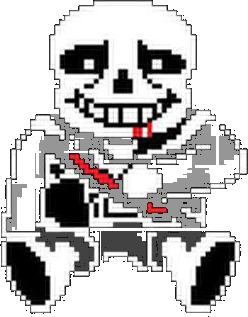
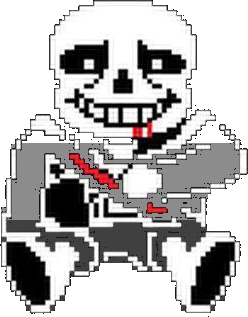
Rename Hoàng My -> Hoàn My (slide 2 + still); redo Sans sprite fill (closed silhouette, no stray gaps); cache-bust
Claude-Session: https://claude.ai/code/session_015dETkK63Reb6JNnJAvDzmD

diff --git a/index.html b/index.html
@@ -328,7 +328,7 @@
   <script>
     // ================= CẤU HÌNH =================
     const slideImages = [
-      'slide1.webp?v=1118', 'slide2.webp?v=1118', 'slide3.webp?v=1124', 'slide4.webp?v=1118', 'slide5.webp?v=1118',
+      'slide1.webp?v=1118', 'slide2.webp?v=1124', 'slide3.webp?v=1124', 'slide4.webp?v=1118', 'slide5.webp?v=1118',
       'slide6.webp?v=1118', 'slide7.webp?v=1118', 'slide8.webp?v=1118', 'slide9.webp?v=1118', 'slide10.webp?v=1118'
     ];
     // Thông tin hiển thị khi mở từng slide: sửa title / desc ở đây
@@ -1156,11 +1156,11 @@
     const SANS_HURT = new Image();
     let SANS_HURT_O = null;
     SANS_HURT.onload = () => { SANS_HURT_O = outlineSprite(SANS_HURT, 5, '#0b0b0b'); };
-    SANS_HURT.src = 'assets/sans-hurt.png?v=2';            // Sans ngồi gục
+    SANS_HURT.src = 'assets/sans-hurt.png?v=3';            // Sans ngồi gục
     const SANS_CUT = new Image();
     let SANS_CUT_O = null;
     SANS_CUT.onload = () => { SANS_CUT_O = outlineSprite(SANS_CUT, 4, '#0b0b0b'); };
-    SANS_CUT.src = 'assets/sans-cut.png?v=2';              // Sans đứng, vết chém đỏ ngang ngực
+    SANS_CUT.src = 'assets/sans-cut.png?v=3';              // Sans đứng, vết chém đỏ ngang ngực
     function outlineSprite(img, o, col) {                            // viền đen quanh sprite trắng cho dễ nhìn trên nền sáng
       const c = document.createElement('canvas'); c.width = img.width + o * 2; c.height = img.height + o * 2;
       const g = c.getContext('2d'), k = document.createElement('canvas'); k.width = img.width; k.height = img.height;
@@ -1435,7 +1435,7 @@
       return true;
     }
     // Slide có bản động (iframe phủ lên): slide 2 (cọ sơn + bút chì vẽ), slide 3 (gió + keo dán), slide 4 (phố xe đạp), slide 5 (bếp), slide 6 (giếng + mất điện), slide 7 (làng quê), slide 10 (cảnh kết: ghế, sân khấu, pháo hoa)
-    const ANIM_SRC = { 0: 'slide1-anim.html?embed', 1: 'slide2-anim.html?embed&v=1122', 2: 'slide3-anim.html?embed&v=1124', 3: 'slide4-anim.html?embed&v=1118', 4: 'slide5-anim.html?embed', 5: 'slide6-anim.html?embed&v=1118', 6: 'slide7-anim.html?embed&v=1118', 7: 'slide8-anim.html?embed', 8: 'slide9-anim.html?embed', 9: 'slide10-anim.html?embed&v=20261124a' };
+    const ANIM_SRC = { 0: 'slide1-anim.html?embed', 1: 'slide2-anim.html?embed&v=1124', 2: 'slide3-anim.html?embed&v=1124', 3: 'slide4-anim.html?embed&v=1118', 4: 'slide5-anim.html?embed', 5: 'slide6-anim.html?embed&v=1118', 6: 'slide7-anim.html?embed&v=1118', 7: 'slide8-anim.html?embed', 8: 'slide9-anim.html?embed', 9: 'slide10-anim.html?embed&v=20261124a' };
     const BLANK_SLIDE = 'assets/anim-blank.png';            // nền đen cho slide 2 lúc chưa vẽ
     const START_IMG = { 3: 'slide4-s.webp?v=1118', 4: 'slide5-s.webp?v=1118', 5: 'slide6-s.webp?v=1118', 6: 'slide7-s.webp?v=1118', 7: 'slide8-s.webp?v=1118', 8: 'slide9-s.webp?v=1118' };   // khung ĐẦU của hoạt ảnh: ảnh tĩnh lúc vào slide khớp với khung đầu của iframe -> không bị giật khi hoạt ảnh bắt đầu
     const slidePath = (i) => (i === 2 || i === 9) ? BLANK_SLIDE : (START_IMG[i] || slideImages[i]);   // slide 2 và 10 (cảnh kết) bắt đầu từ nền đen
@@ -2349,7 +2349,7 @@
     // ----- Chuyển slide trong chế độ tim xanh -----
     // Chuyển tới slide kế (dir = +1: click, chém) hoặc slide trước (dir = -1: Backspace, tan)
     // ----- Slide 9.5 (Sans quiz): không có trong danh sách tim đỏ / tim xanh, chỉ xuất hiện khi bấm tiếp từ slide 9 ở chế độ tim xanh -----
-    const QUIZ_V = '20261124c';
+    const QUIZ_V = '20261124d';
     const quiz = { on: false };
     const quizEl = document.getElementById('quiz95');
     // Tải sẵn nhạc kết trong lúc người xem ở slide 9.5: vào slide 10 là chạy ngay (trình duyệt dùng lại bản đã tải)
@@ -2363,7 +2363,7 @@
     let quizWarm = false;
     function prefetchQuiz() {
       if (quizWarm) return; quizWarm = true;
-      const small = ['slide95-sans.html?embed&v=' + QUIZ_V, 'assets/papyrus.png', 'assets/papyrus-bw-anim.png', 'assets/papyrus-faces.png', 'assets/papyrus-head.png', 'assets/cauldron-px.png', 'assets/sans-head.png', 'assets/sans-shake.png?v=2', 'assets/sans-shrug.png?v=2', 'assets/sans-sleep.png?v=2', 'assets/gaster.png', 'assets/gaster-b.png',
+      const small = ['slide95-sans.html?embed&v=' + QUIZ_V, 'assets/papyrus.png', 'assets/papyrus-bw-anim.png', 'assets/papyrus-faces.png', 'assets/papyrus-head.png', 'assets/cauldron-px.png', 'assets/sans-head.png', 'assets/sans-shake.png?v=3', 'assets/sans-shrug.png?v=3', 'assets/sans-sleep.png?v=3', 'assets/gaster.png', 'assets/gaster-b.png',
         'assets/sfx-correct.mp3', 'assets/sfx-nuhuh.mp3', 'assets/sfx-prize.mp3', 'assets/sfx-rock.mp3', 'assets/sfx-sans-talk.mp3', 'assets/sfx-pap-nyeh.mp3', 'assets/sfx-pap-talk.mp3', 'assets/sfx-gaster-talk.mp3', 'assets/sfx-gaster-vanish.mp3', 'assets/sfx-wheel.mp3'];
       const big = ['assets/music-sans-select.mp3', 'assets/music-papyrus.mp3', 'assets/music-gaster.mp3', 'assets/music-megalovania.mp3'];
       (async () => { for (const u of small.concat(big)) { try { const r = await fetch(u); await r.blob(); } catch (e) { } await new Promise((res) => setTimeout(res, 150)); } })();
@@ -3102,7 +3102,7 @@
       tasks.push(['Fonts', font("16px 'Press Start 2P'", 'font1')], ['Fonts', font("700 20px Tinos", 'font2')], ['Fonts', font("400 20px 'Public Sans'", 'font3')]);
       slideImages.forEach((p, i) => tasks.push(['Slide ' + (i + 1), img(p)]));
       Object.values(START_IMG).forEach((p) => tasks.push(['Slide', img(p)]));
-      ['anim-blank.png', 'watch.png', 'spear.png', 'blaster.png', 'sans-cut.png?v=2', 'sans-hurt.png?v=2', 'stage.jpg', 's3-tram.jpg', 's4-tram.jpg', 's5-kitchen.jpg', 's6-water.jpg', 's7-games.jpg', 's7-tv.jpg', 's8-past.jpg', 's8-present.jpg',
+      ['anim-blank.png', 'watch.png', 'spear.png', 'blaster.png', 'sans-cut.png?v=3', 'sans-hurt.png?v=3', 'stage.jpg', 's3-tram.jpg', 's4-tram.jpg', 's5-kitchen.jpg', 's6-water.jpg', 's7-games.jpg', 's7-tv.jpg', 's8-past.jpg', 's8-present.jpg',
         'anim-brush.png', 'anim-pencil.png', 'icon-designer.png', 'icon-image.png', 'icon-presenter.png', 'icon-researcher.png'].forEach((f) => tasks.push(['Images', img('assets/' + f)]));
       tasks.push(['Style', get('slides.css')], ['Effects', get('fx-post.js')]);
       AUD.list.forEach((a) => { if (a.preload !== 'none' && !a.loop) tasks.push(['Audio', () => sfxBoostLoad(a)]); });      // mọi tiếng hiệu ứng: tải + giải mã sẵn

diff --git a/slide2-anim.html b/slide2-anim.html
@@ -116,7 +116,7 @@
     c.restore();
   }
   // ---------- Nội dung ----------
-  const NAMES = ['Huỳnh Nghĩa', 'Chi Hiếu', 'Hoàng My', 'Đăng Khoa', 'Ngọc Hân'];
+  const NAMES = ['Huỳnh Nghĩa', 'Chi Hiếu', 'Hoàn My', 'Đăng Khoa', 'Ngọc Hân'];
   function drawContent(ctx) {
     ctx.save();
     ctx.lineJoin = 'round'; ctx.textBaseline = 'alphabetic';
@@ -140,7 +140,7 @@
     { name: 'Huỳnh Nghĩa', f: 0, col: '#ff5a4f', items: ['mic'], v: 95, path: [[800, 430], [1300, 390], [1430, 610], [1000, 570]] },
     { name: 'Đăng Khoa', f: 0, col: '#5fe06a', items: ['camera'], v: 100, path: [[1450, 810], [1000, 770], [770, 700], [1100, 530], [1450, 520]] },
     { name: 'Chi Hiếu', f: 0, col: '#4fb0ff', items: ['lens'], v: 90, path: [[200, 790], [600, 830], [900, 710], [1100, 830], [520, 800]] },
-    { name: 'Hoàng My', f: 0, col: '#ff7be5', items: ['palette'], v: 85, path: [[900, 340], [1200, 340], [1450, 430], [1250, 660], [850, 510]] },
+    { name: 'Hoàn My', f: 0, col: '#ff7be5', items: ['palette'], v: 85, path: [[900, 340], [1200, 340], [1450, 430], [1250, 660], [850, 510]] },
     { name: 'Ngọc Hân', f: 0, col: '#ffd23f', items: ['frame'], v: 80, path: [[1300, 790], [1450, 660], [1150, 650], [800, 830], [400, 810], [300, 815], [1000, 770]] },
   ];
   FIG.forEach((F) => {

diff --git a/slide95-sans.html b/slide95-sans.html
@@ -265,7 +265,7 @@
     <div id="hint">CLICK SANS</div>
   </div>
 
-  <img id="sans" src="assets/sans-shrug.png?v=2" alt="Sans" draggable="false">
+  <img id="sans" src="assets/sans-shrug.png?v=3" alt="Sans" draggable="false">
   <div id="sansSp"></div>
 
   <img id="gasBig" src="assets/gaster.png" alt="" draggable="false">
@@ -437,8 +437,8 @@
   };
   // sheet: ảnh ghép khung hình (cột x hàng), n khung, fps
   const SHEETS = {
-    shake: { src: 'assets/sans-shake.png?v=2', fw: 199, fh: 268, cols: 6, n: 12, fps: 10 },
-    sleep: { src: 'assets/sans-sleep.png?v=2', fw: 175, fh: 248, cols: 9, n: 71, fps: 10 }
+    shake: { src: 'assets/sans-shake.png?v=3', fw: 199, fh: 268, cols: 6, n: 12, fps: 10 },
+    sleep: { src: 'assets/sans-sleep.png?v=3', fw: 175, fh: 248, cols: 9, n: 71, fps: 10 }
   };
   const sp = $('sansSp'); let spTimer = 0;
   function playSheet(name, h, left, top) {

diff --git a/slides.html b/slides.html
@@ -41,7 +41,7 @@
     </div>
     <div class="member m3">
       <img src="assets/icon-designer.png" alt="">
-      <div><h3>Slide Designer</h3><p>Hoàng My</p></div>
+      <div><h3>Slide Designer</h3><p>Hoàn My</p></div>
     </div>
     <div class="member m4">
       <img src="assets/icon-image.png" alt="">
